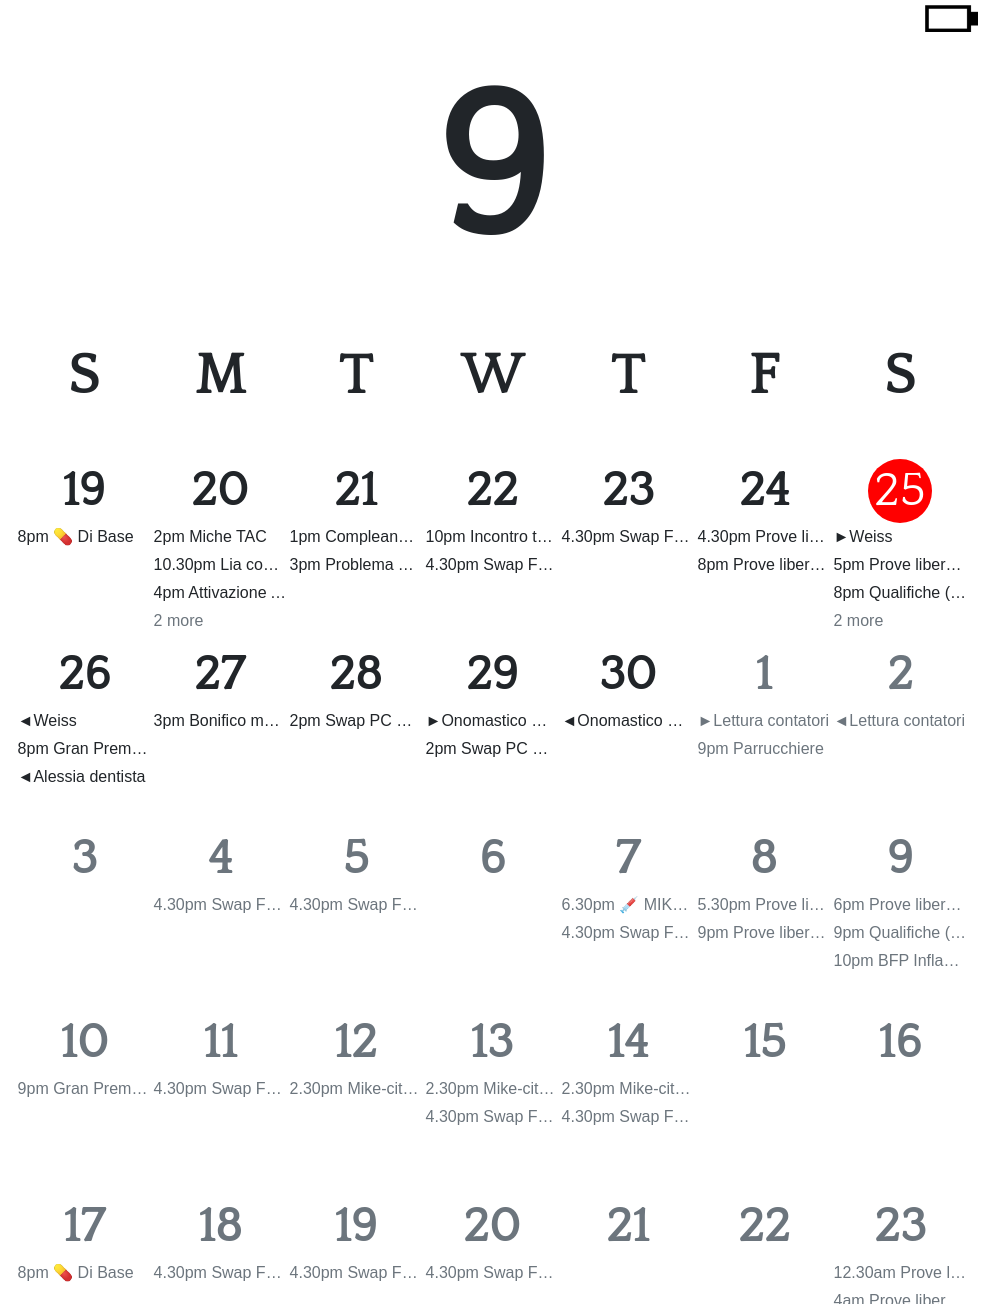
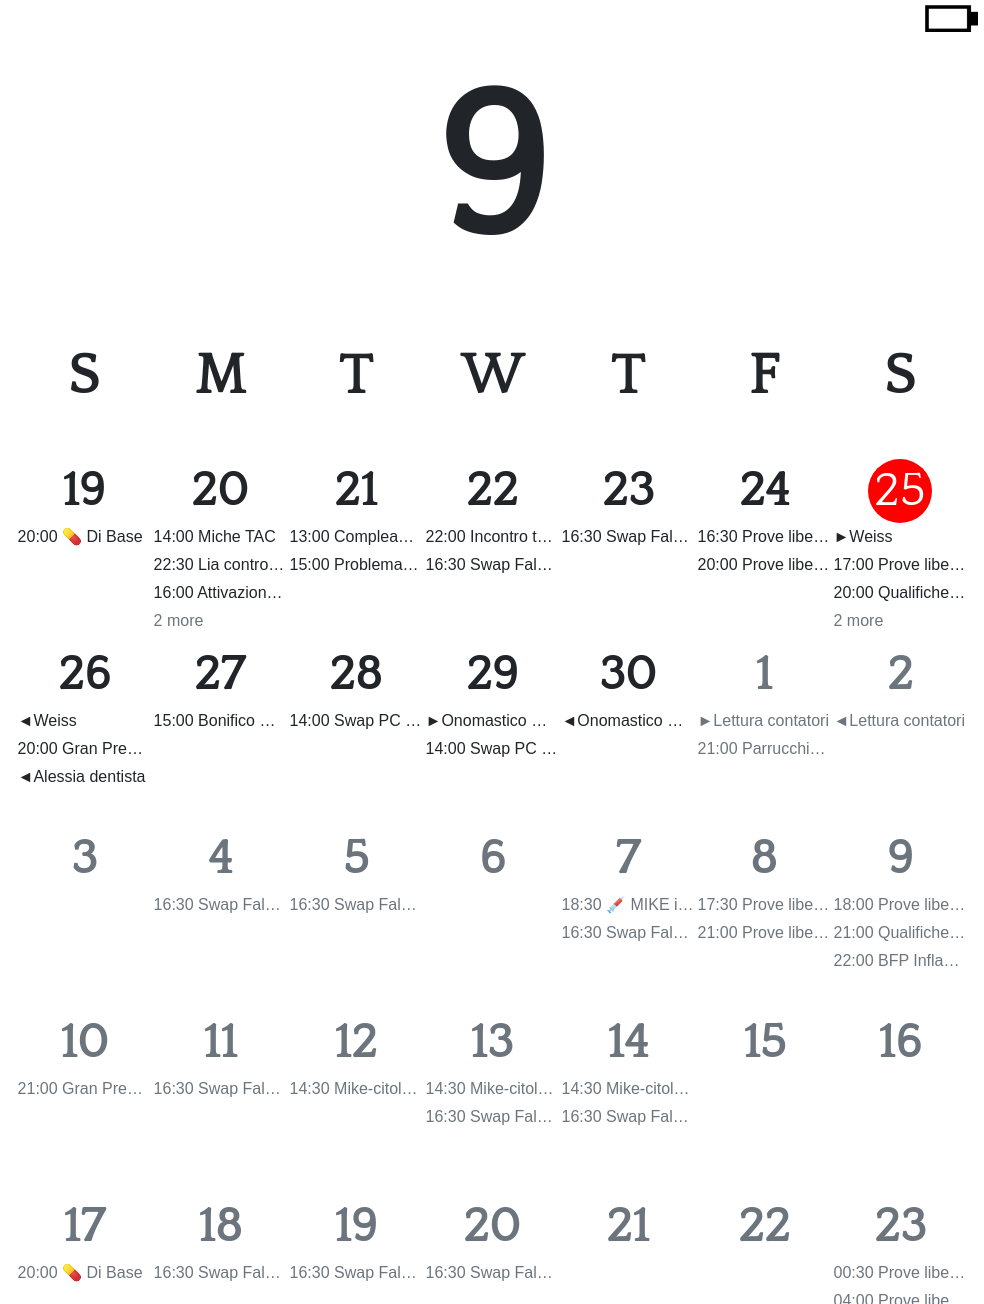
Add 12/24 hour by settings

diff --git a/render/render.py b/render/render.py
@@ -79,19 +79,22 @@ class RenderHelper:
         delta = eventDate - startDate
         return delta.days
 
-    def get_short_time(self, datetimeObj):
+    def get_short_time(self, datetimeObj, is24hour=False):
         datetimeStr = ''
-        if datetimeObj.minute > 0:
-            datetimeStr = ('.{:02d}').format(datetimeObj.minute)
-
-        if datetimeObj.hour == 0:
-            datetimeStr = '12' + datetimeStr + 'am'
-        elif datetimeObj.hour == 12:
-            datetimeStr = '12' + datetimeStr + 'pm'
-        elif datetimeObj.hour > 12:
-            datetimeStr = str(datetimeObj.hour % 12) + datetimeStr + 'pm'
+        if is24hour:
+            datetimeStr = '{:02d}'.format(datetimeObj.hour) + ':{:02d}'.format(datetimeObj.minute)
         else:
-            datetimeStr = str(datetimeObj.hour) + datetimeStr + 'am'
+            if datetimeObj.minute > 0:
+                datetimeStr = ('.{:02d}').format(datetimeObj.minute)
+
+            if datetimeObj.hour == 0:
+                datetimeStr = '12' + datetimeStr + 'am'
+            elif datetimeObj.hour == 12:
+                datetimeStr = '12' + datetimeStr + 'pm'
+            elif datetimeObj.hour > 12:
+                datetimeStr = str(datetimeObj.hour % 12) + datetimeStr + 'pm'
+            else:
+                datetimeStr = str(datetimeObj.hour) + datetimeStr + 'am'
         return datetimeStr
 
     def process_inputs(self, calDict):
@@ -106,6 +109,7 @@ class RenderHelper:
         batteryDisplayMode = calDict['batteryDisplayMode']
         dayOfWeekText = calDict['dayOfWeekText']
         weekStartDay = calDict['weekStartDay']
+        is24hour = calDict['is24hour']
 
         # for each item in the eventList, add them to the relevant day in our calendar list
         for event in calDict['events']:
@@ -184,7 +188,7 @@ class RenderHelper:
                 elif event['allday']:
                     calHtmlList.append('">' + event['summary'])
                 else:
-                    calHtmlList.append('">' + self.get_short_time(event['startDatetime']) + ' ' + event['summary'])
+                    calHtmlList.append('">' + self.get_short_time(event['startDatetime'], is24hour) + ' ' + event['summary'])
                 calHtmlList.append('</div>\n')
             if len(calList[i]) > maxEventsPerDay:
                 calHtmlList.append('<div class="event text-muted">' + str(len(calList[i])-maxEventsPerDay) + ' more')

diff --git a/maginkcal.py b/maginkcal.py
@@ -36,6 +36,7 @@ def main():
     imageHeight = config['imageHeight'] # Height of image to be generated for display.
     rotateAngle = config['rotateAngle']  # If image is rendered in portrait orientation, angle to rotate to fit screen
     calendars = config['calendars']  # Google calendar ids
+    is24hour = config['is24h']  # set 24 hour time
 
     # Create and configure logger
     logging.basicConfig(filename="logfile.log", format='%(asctime)s %(levelname)s - %(message)s', filemode='a')
@@ -69,7 +70,8 @@ def main():
         # Populate dictionary with information to be rendered on e-ink display
         calDict = {'events': eventList, 'calStartDate': calStartDate, 'today': currDate, 'lastRefresh': currDatetime,
                    'batteryLevel': currBatteryLevel, 'batteryDisplayMode': batteryDisplayMode,
-                   'dayOfWeekText': dayOfWeekText, 'weekStartDay': weekStartDay, 'maxEventsPerDay': maxEventsPerDay}
+                   'dayOfWeekText': dayOfWeekText, 'weekStartDay': weekStartDay, 'maxEventsPerDay': maxEventsPerDay,
+                   'is24hour': is24hour}
 
         renderService = RenderHelper(imageWidth, imageHeight, rotateAngle)
         calBlackImage, calRedImage = renderService.process_inputs(calDict)
